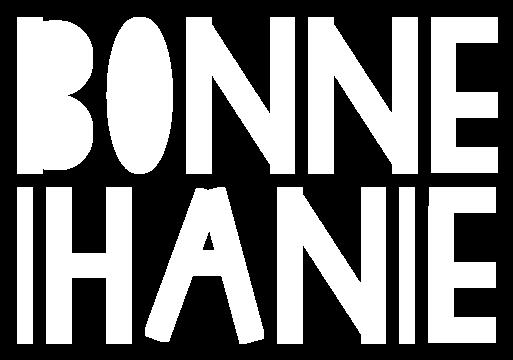
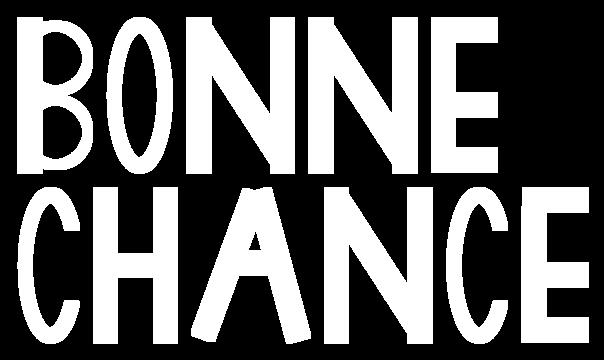
da letters holes

diff --git a/src/main/java/Letter/LetterFactory.java b/src/main/java/Letter/LetterFactory.java
@@ -46,13 +46,15 @@ public final class LetterFactory {
         Rectangle left = new Rectangle(stripeThickness, maxHeight);
         letterB.addAll(left.getCoords());
 
+        Circle center = new Circle(maxWidth);
+
         Circle top = new Circle(maxWidth + halfStripeThickness);
-        Circle peeps = new Circle (maxWidth);
-        top.removeAll(peeps.getCoords());
+        top.remove(center);
         top.translate(top.getCoords(), new Point2d(halfMaxWidth - 5.0, -37.0));
         letterB.addAll(top.getCoords());
 
         Circle bottom = new Circle(maxWidth + halfStripeThickness);
+        bottom.remove(center);
         bottom.translate(bottom.getCoords(), new Point2d(halfMaxWidth - 5.0, 37.0));
         letterB.addAll(bottom.getCoords());
 
@@ -65,8 +67,16 @@ public final class LetterFactory {
      */
     public static BaseShape create_C() {
         BaseShape letterC = new BaseShape();
-        Rectangle side = new Rectangle(halfStripeThickness, maxHeight);
-        letterC.addAll(side.getCoords());
+
+        Ellipse curve = new Ellipse(maxWidth, maxHeight);
+        Ellipse middle = new Ellipse(maxWidth - stripeThickness, maxHeight - stripeThickness);
+        Rectangle side = new Rectangle(halfMaxWidth, halfMaxHeight);
+        side.translate(side.getCoords(), new Point2d(stripeThickness, 0.0));
+
+        curve.remove(middle);
+        curve.remove(side);
+
+        letterC.addAll(curve.getCoords());
 
         return letterC;
     }
@@ -147,6 +157,10 @@ public final class LetterFactory {
         BaseShape letterO = new BaseShape();
 
         Ellipse contour = new Ellipse(maxWidth, maxHeight);
+        Ellipse middle = new Ellipse(maxWidth - stripeThickness, maxHeight - stripeThickness);
+
+        contour.remove(middle);
+
         letterO.addAll(contour.getCoords());
 
         return letterO;

diff --git a/src/main/java/Shape/BaseShape.java b/src/main/java/Shape/BaseShape.java
@@ -90,7 +90,7 @@ public class BaseShape extends Transform implements Cloneable {
      */
     public BaseShape removeAll(Collection<Point2d> coords) {
         for(Point2d point : coords){
-            remove(point);
+            this.coords.remove(point);
         }
         return this;
     }
